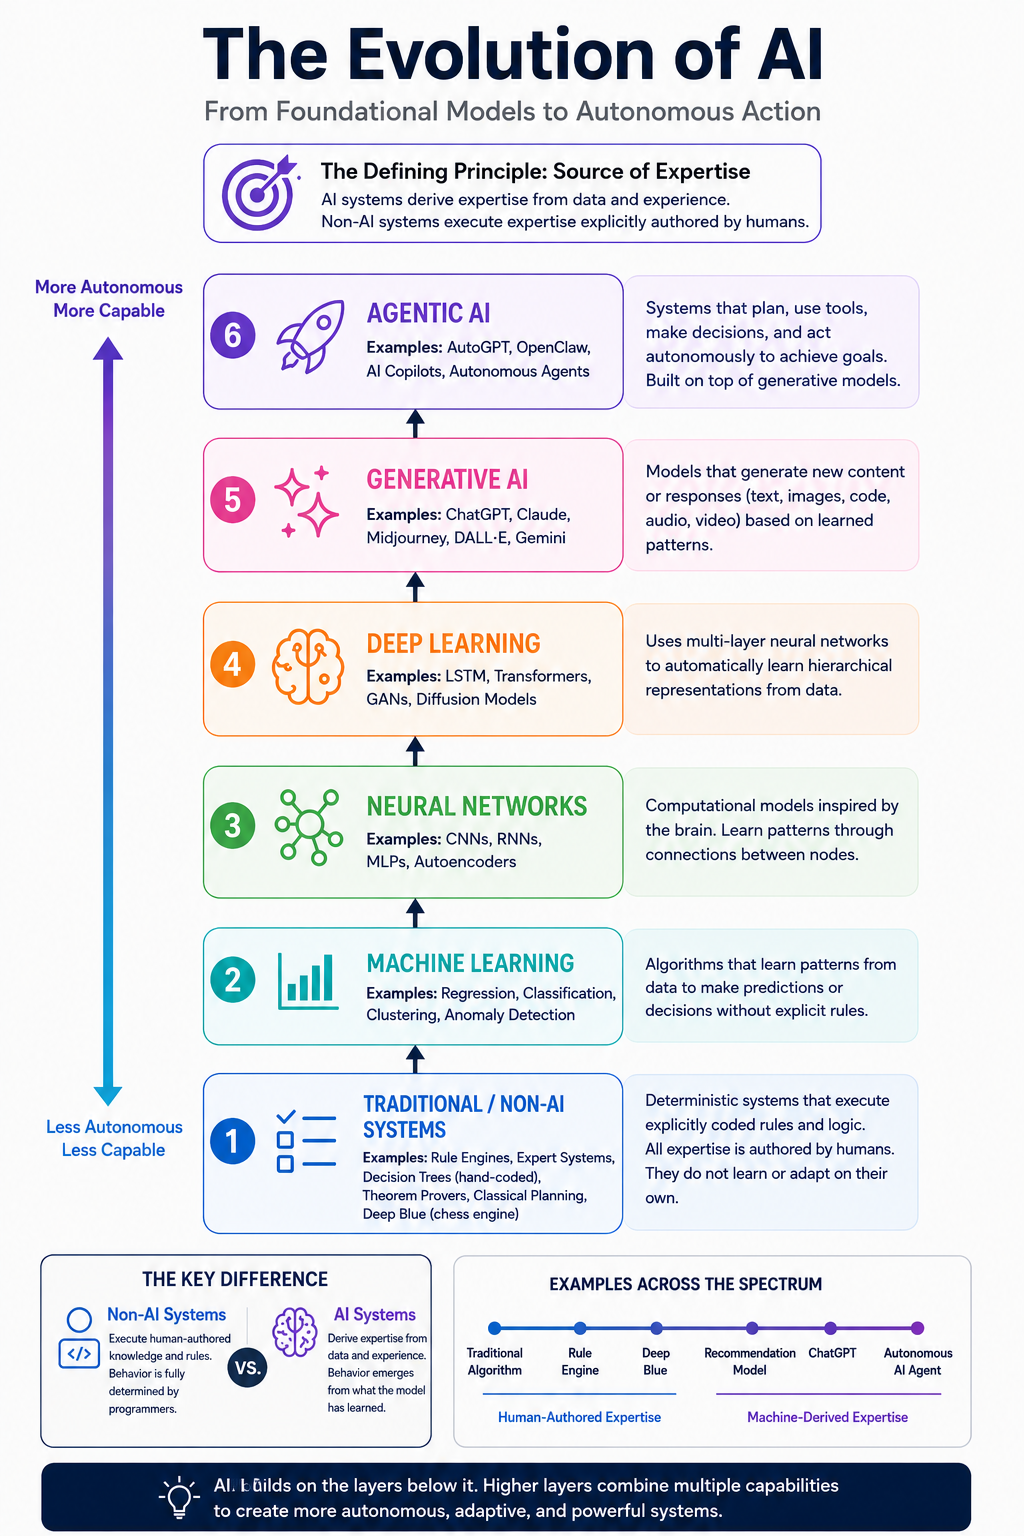
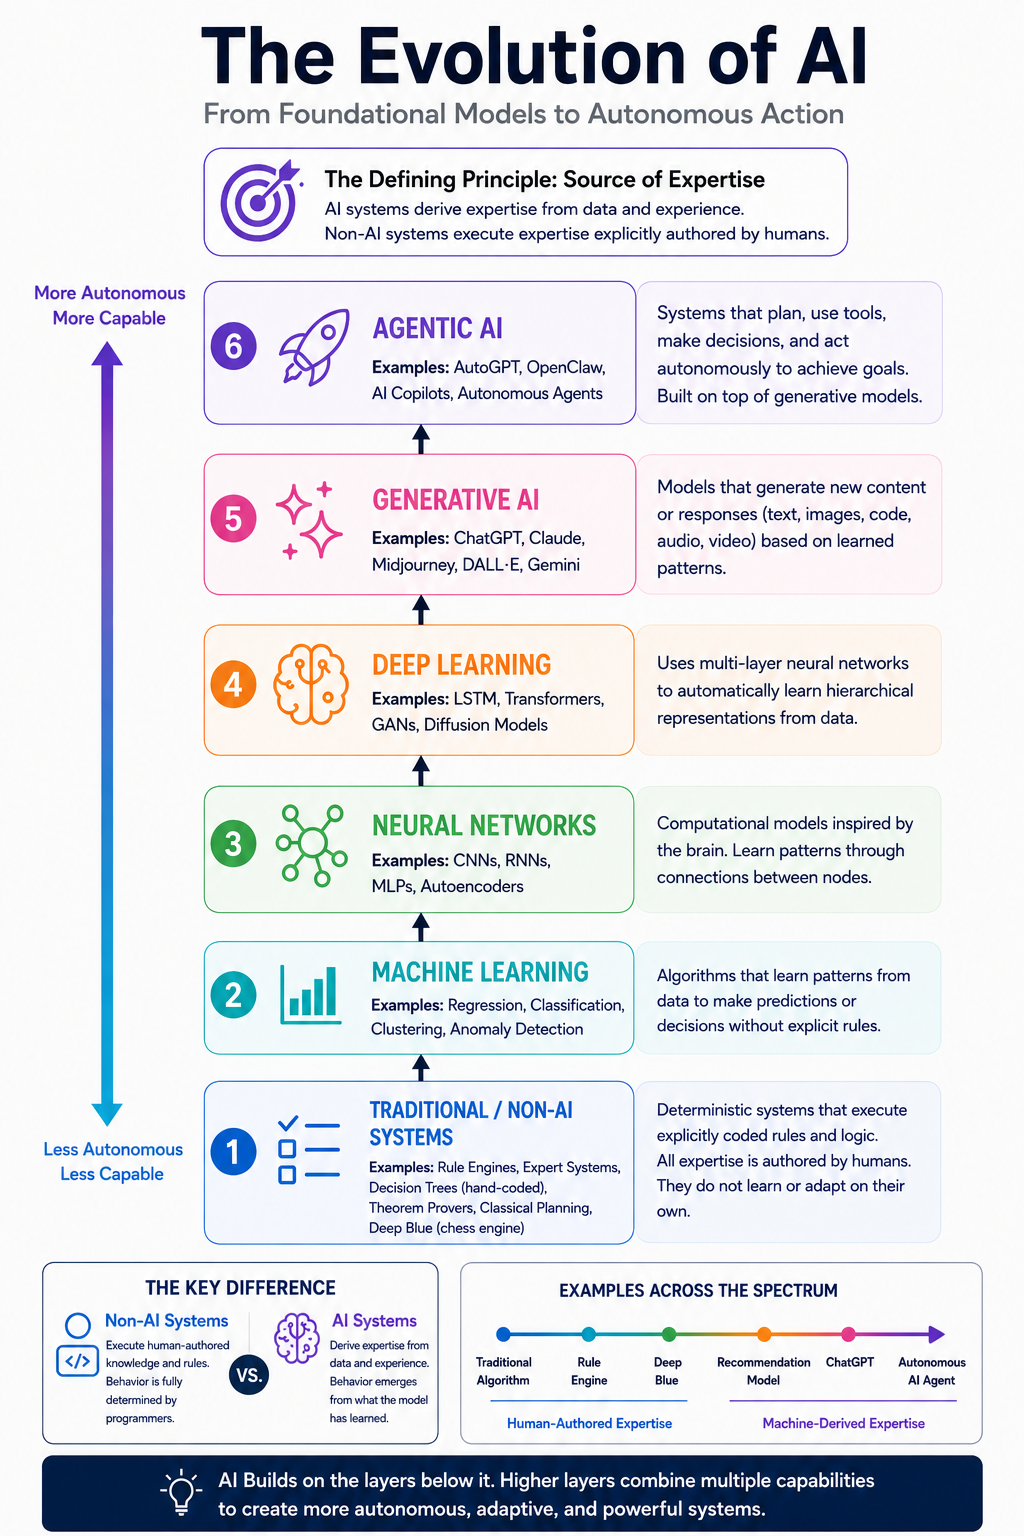
updates

Changed region(s): [[0.0312, 0.0, 0.9688, 1.0]]

diff --git a/blog/classical-ai-never-ai.html b/blog/classical-ai-never-ai.html
@@ -492,7 +492,7 @@
 
       <p>The problem is what the taxonomy groups together. Under this framing, <a href="https://exhibits.stanford.edu/feigenbaum/browse/the-mycin-experiments" target="_blank" rel="noopener">MYCIN</a>, a 1970s medical diagnosis program that applied if-then rules written by physicians, and a modern large language model trained on hundreds of billions of tokens, occupy the same category. They do not belong there together. One is an elaborate lookup table with a medical vocabulary. The other derives an understanding of language and reasoning from data at a scale no human could have encoded. Calling both "AI" conflates the filing cabinet with the analyst.</p>
 
-      <p>A more precise definition: <strong>Artificial Intelligence is a computational system whose expertise is primarily machine-derived rather than explicitly authored by humans.</strong></p>
+      <p>A more precise definition: <strong>Artificial Intelligence is a computational system whose expertise is machine-derived rather than explicitly authored by humans.</strong></p>
 
       <p>The word "computational" removes any implication that the form of the system matters. Code is the implementation, not the defining characteristic. An engine is an engine whether it runs on gasoline, diesel, or hydrogen. What defines it is what it does, not how it is built. Similarly, what defines AI is how its expertise is acquired, not the language it was written in or the hardware it runs on.</p>
 
@@ -656,7 +656,7 @@
 
       <p>The pattern is consistent. Every system in the No column shares one characteristic: a human wrote the expertise. The rules, the evaluation functions, the inference logic, the clinical decision trees -- all of it was authored by domain experts and encoded by engineers. These systems execute knowledge. They do not develop it.</p>
 
-      <p>The systems in the Yes column share the opposite characteristic. The objective may have been specified by a human (minimize loss, maximize reward, predict the next token), but the expertise that emerges from training was not. A recommendation model does not apply rules about what users enjoy. It derives patterns of preference from behavior at scale. A large language model does not execute a grammar. It has derived an internal representation of language that produces coherent, contextually appropriate text across an essentially unbounded range of topics.</p>
+      <p>The systems in the Yes column share the opposite characteristic. The objective may have been specified by a human (minimize loss, maximize reward, predict the next token), but the expertise that emerges from training was not. A recommendation model does not apply rules about what users enjoy. It derives patterns of preference from behavior at scale. A large language model was not programmed with grammar rules. It derived that understanding from data, producing coherent, contextually appropriate text across an essentially unbounded range of topics.</p>
 
       <p>The Borderline case is instructive. A theorem prover operates on axioms and inference rules that are human-authored, but it derives consequences from those axioms that no human specified. It surfaces an important nuance: the distinction is not always binary. There is a spectrum, and the question is where a given system sits on it. But for most of what has historically been called "AI," the answer is unambiguous.</p>
 
